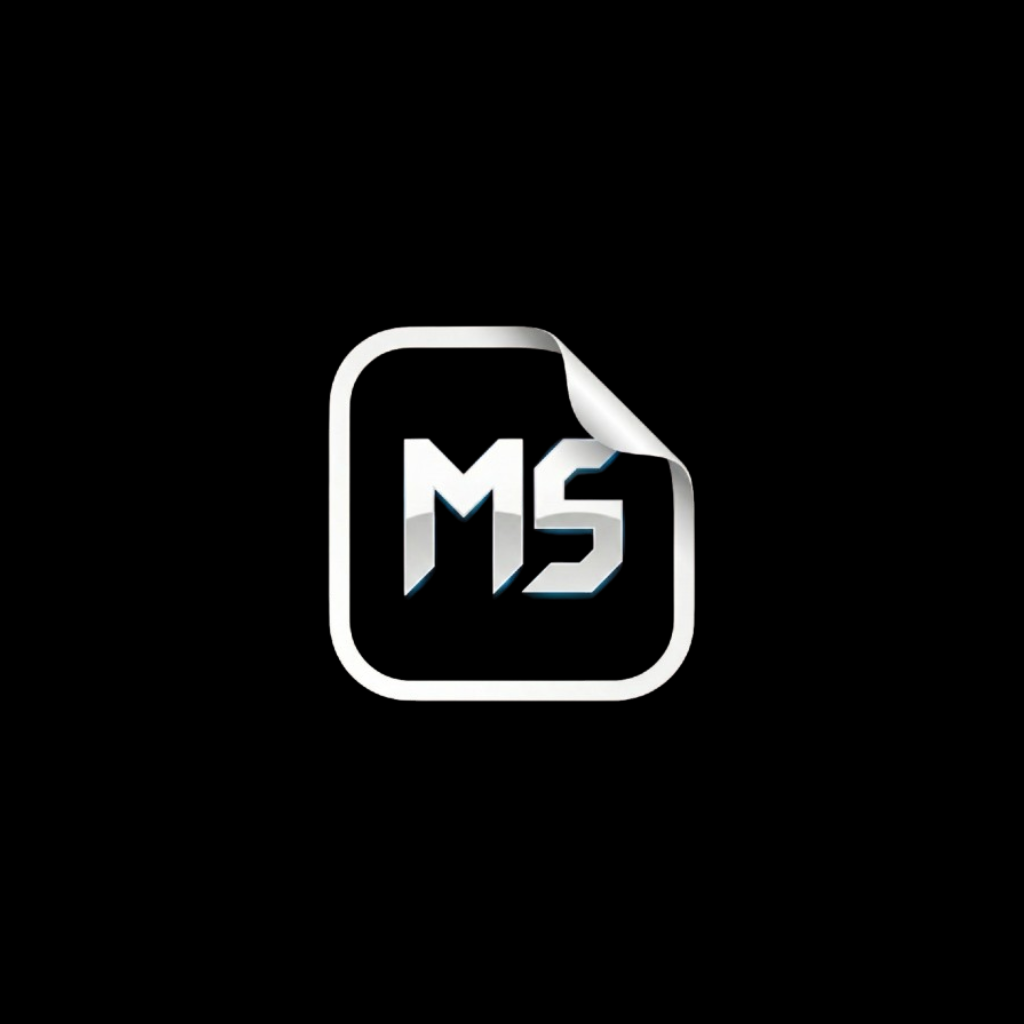
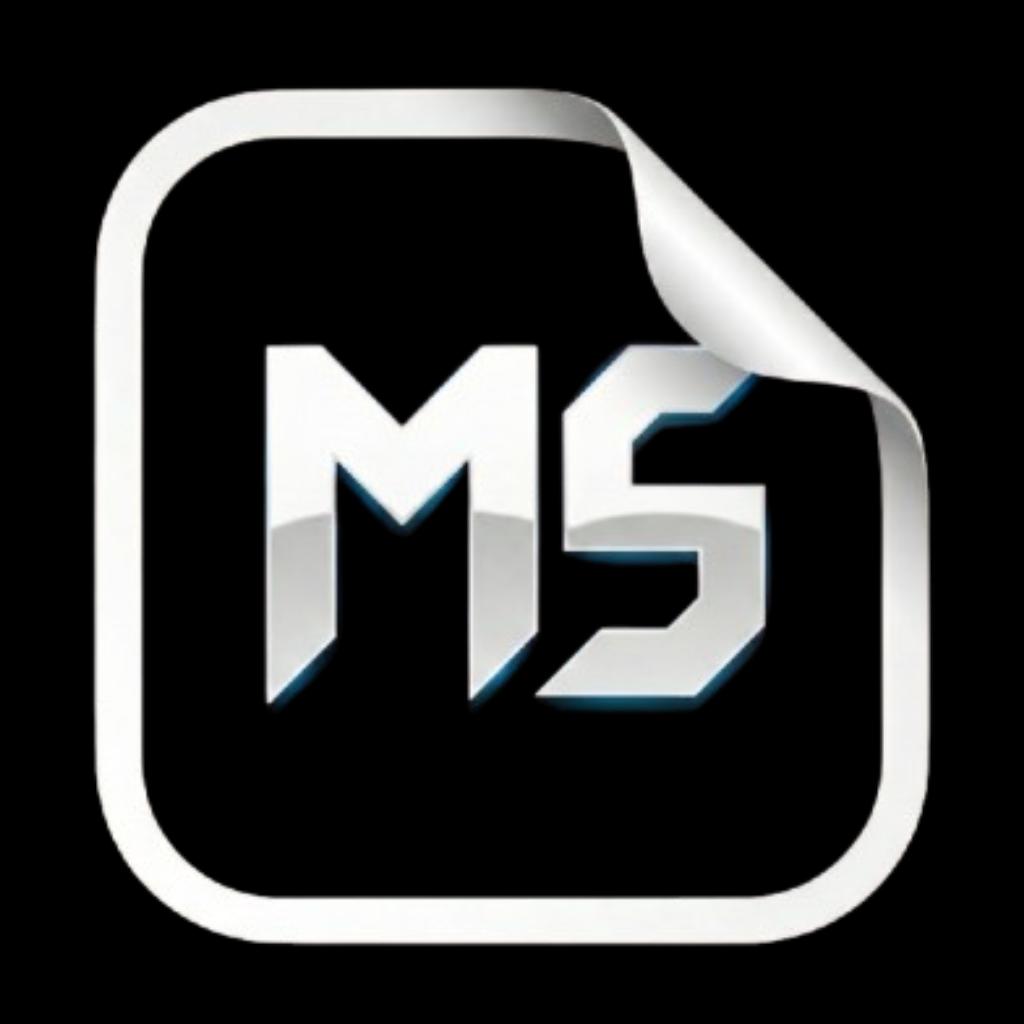
fix: corrigiendo build de Android (Babel/Worklets) y escalado de icono de app

Changed region(s): [[0.0938, 0.0625, 0.9062, 0.9375]]

diff --git a/app/(tabs)/create.tsx b/app/(tabs)/create.tsx
@@ -30,6 +30,7 @@ export default function CreateScreen() {
 
   const [prompt, setPrompt] = useState('');
   const [selectedImage, setSelectedImage] = useState<string | null>(null);
+  const [isLoading, setIsLoading] = useState(false);
   const [isGenerating, setIsGenerating] = useState(false);
   const [isGeneratingText, setIsGeneratingText] = useState(false);
 
@@ -91,13 +92,20 @@ export default function CreateScreen() {
    * Genera el sticker con IA
    */
   const generateSticker = async () => {
-    if (!prompt.trim()) {
-      Alert.alert('Atención', 'Escribe una descripción para tu sticker');
+    // Validación de inputs antes de cualquier operación
+    if (!selectedImage) {
+      Alert.alert(
+        'Atención',
+        'Por favor, selecciona una imagen antes de generar el sticker.'
+      );
       return;
     }
 
-    if (!selectedImage) {
-      Alert.alert('Atención', 'Selecciona una imagen primero');
+    if (!prompt.trim()) {
+      Alert.alert(
+        'Atención',
+        'Por favor, escribe una descripción para tu sticker.'
+      );
       return;
     }
 
@@ -109,7 +117,10 @@ export default function CreateScreen() {
       return;
     }
 
+    // Activar estado de loading
+    setIsLoading(true);
     setIsGenerating(true);
+
     try {
       // Consumir crédito
       const consumed = await consume();
@@ -149,6 +160,8 @@ export default function CreateScreen() {
         'No se pudo generar el sticker. Verifica tu conexión e intenta nuevamente.'
       );
     } finally {
+      // Asegurar que el estado de loading se desactive siempre
+      setIsLoading(false);
       setIsGenerating(false);
     }
   };
@@ -231,11 +244,11 @@ export default function CreateScreen() {
                 style={{ color: '#FFFFFF' }}
               multiline
                 maxLength={200}
-                editable={!isGenerating}
+                editable={!isLoading}
               />
               <TouchableOpacity
                 onPress={generateText}
-                disabled={isGeneratingText || !selectedImage}
+                disabled={isGeneratingText || !selectedImage || isLoading}
                 className="w-10 h-10 rounded-full bg-purple-500 items-center justify-center"
                 activeOpacity={0.8}
               >
@@ -253,12 +266,12 @@ export default function CreateScreen() {
         {canUse() ? (
           <TouchableOpacity
             onPress={generateSticker}
-            disabled={isGenerating}
+            disabled={isLoading}
             className="w-full py-4 rounded-2xl bg-purple-500 items-center justify-center mb-4"
             activeOpacity={0.8}
           >
             <View className="flex-row items-center gap-2">
-              {isGenerating ? (
+              {isLoading ? (
                 <>
                   <ActivityIndicator color="#fff" />
                   <Text className="text-white font-bold text-lg" style={{ color: '#FFFFFF' }}>Generating...</Text>

diff --git a/metro.config.js b/metro.config.js
@@ -4,4 +4,3 @@ const { withNativeWind } = require("nativewind/metro");
 const config = getDefaultConfig(__dirname);
 
 module.exports = withNativeWind(config, { input: "./global.css" });
-
